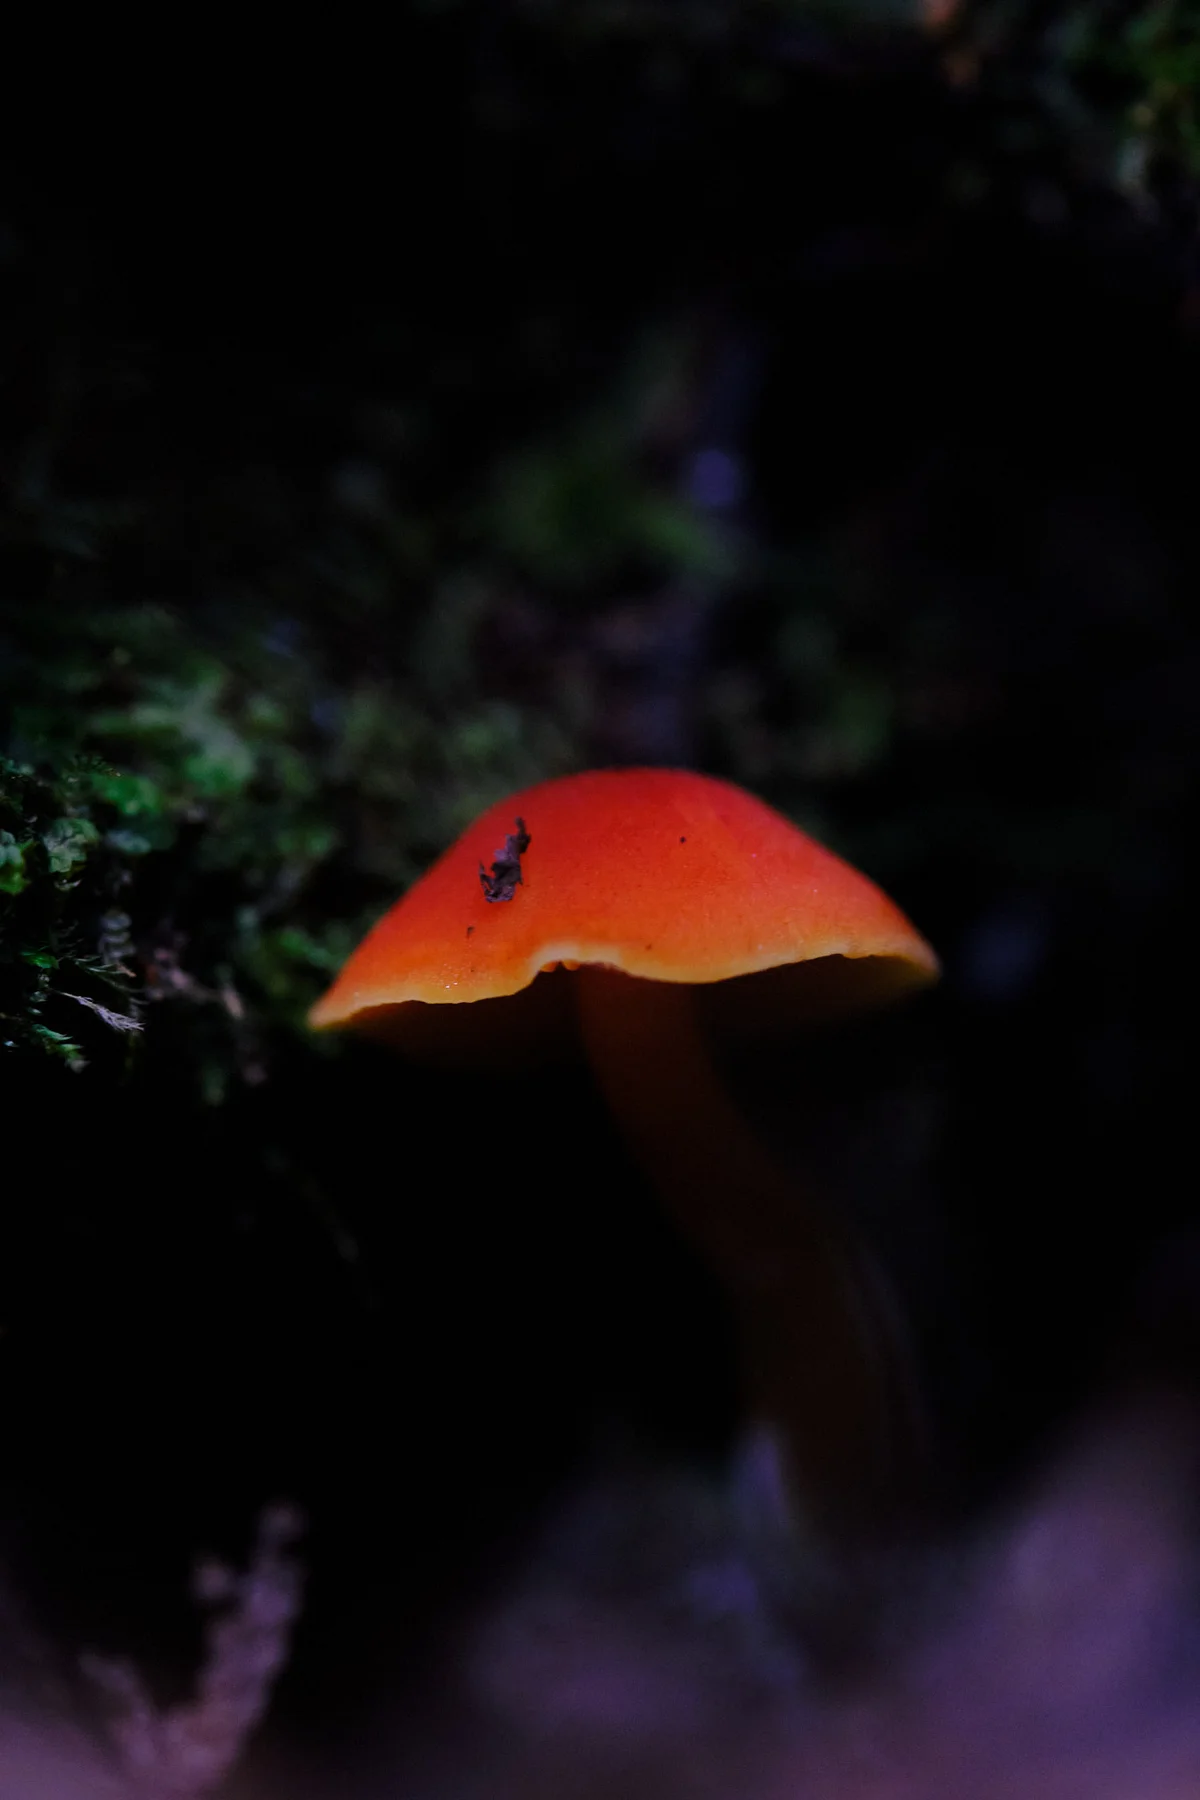
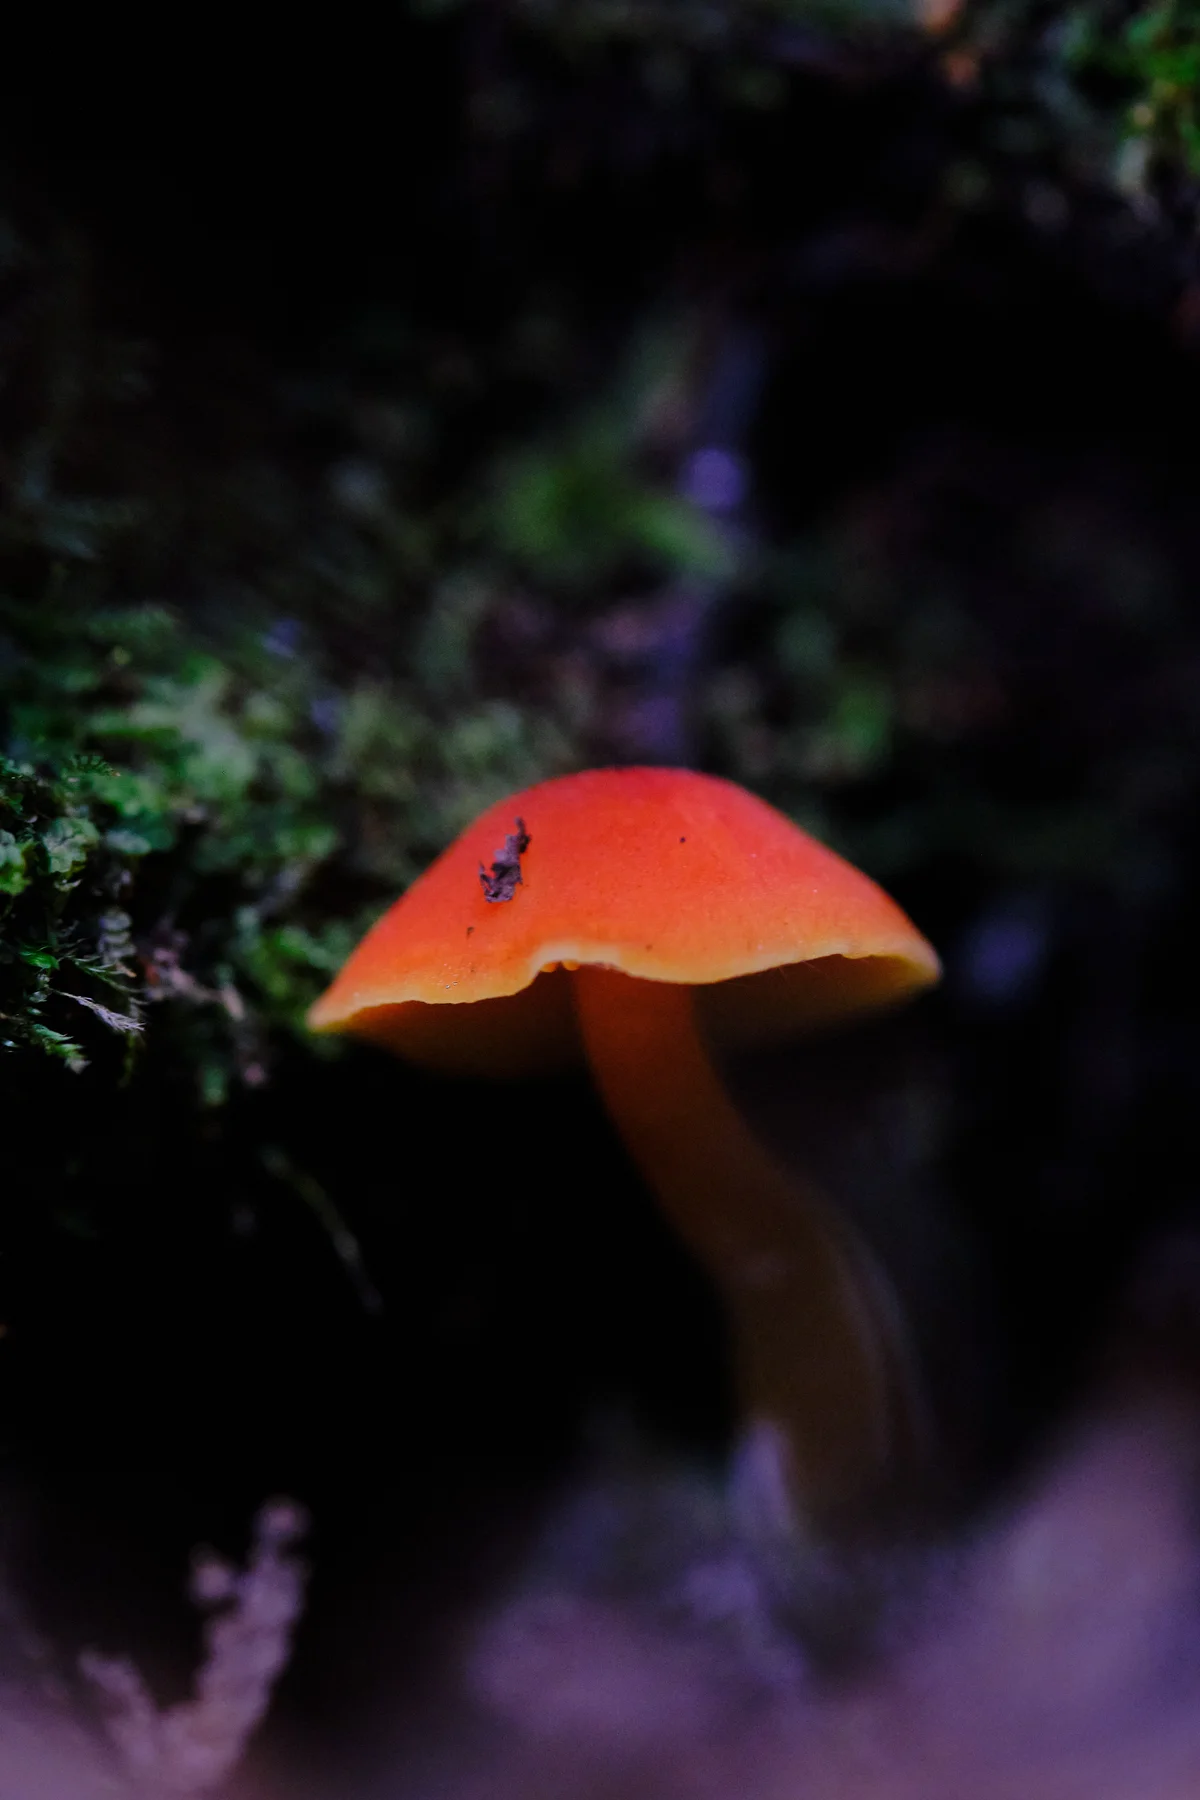
Add better shroom photos, add social links

diff --git a/dist/photos/2025-08-31-camping/index.html b/dist/photos/2025-08-31-camping/index.html
@@ -224,6 +224,11 @@
       </div>
     
       <div class="photo-item" onclick="openModal(9)">
+        <img src="/static/optimized/2025-08-31-camping/orange shroom 2.webp" alt="orange shroom 2" loading="lazy">
+        <div class="filename">orange shroom 2</div>
+      </div>
+    
+      <div class="photo-item" onclick="openModal(10)">
         <img src="/static/optimized/2025-08-31-camping/orange shroom.webp" alt="orange shroom" loading="lazy">
         <div class="filename">orange shroom</div>
       </div>
@@ -248,7 +253,7 @@
     
     <script>
       let currentPhotoIndex = 0;
-      const photos = [{"filename":"(kate) moss.jpg","title":"(kate) moss","imageId":"(kate)moss_0","originalPath":"/photos/2025-08-31-camping/(kate) moss.jpg","optimizedPath":"/static/optimized/2025-08-31-camping/(kate) moss.webp"},{"filename":"a good rock 1.jpg","title":"a good rock 1","imageId":"agoodrock1_1","originalPath":"/photos/2025-08-31-camping/a good rock 1.jpg","optimizedPath":"/static/optimized/2025-08-31-camping/a good rock 1.webp"},{"filename":"a good rock 2.jpg","title":"a good rock 2","imageId":"agoodrock2_2","originalPath":"/photos/2025-08-31-camping/a good rock 2.jpg","optimizedPath":"/static/optimized/2025-08-31-camping/a good rock 2.webp"},{"filename":"a good rock 3.jpg","title":"a good rock 3","imageId":"agoodrock3_3","originalPath":"/photos/2025-08-31-camping/a good rock 3.jpg","optimizedPath":"/static/optimized/2025-08-31-camping/a good rock 3.webp"},{"filename":"a nice gull.jpg","title":"a nice gull","imageId":"anicegull_4","originalPath":"/photos/2025-08-31-camping/a nice gull.jpg","optimizedPath":"/static/optimized/2025-08-31-camping/a nice gull.webp"},{"filename":"a nice stump.jpg","title":"a nice stump","imageId":"anicestump_5","originalPath":"/photos/2025-08-31-camping/a nice stump.jpg","optimizedPath":"/static/optimized/2025-08-31-camping/a nice stump.webp"},{"filename":"a nice walk 2.jpg","title":"a nice walk 2","imageId":"anicewalk2_6","originalPath":"/photos/2025-08-31-camping/a nice walk 2.jpg","optimizedPath":"/static/optimized/2025-08-31-camping/a nice walk 2.webp"},{"filename":"a nice walk.jpg","title":"a nice walk","imageId":"anicewalk_7","originalPath":"/photos/2025-08-31-camping/a nice walk.jpg","optimizedPath":"/static/optimized/2025-08-31-camping/a nice walk.webp"},{"filename":"oozing tree.jpg","title":"oozing tree","imageId":"oozingtree_8","originalPath":"/photos/2025-08-31-camping/oozing tree.jpg","optimizedPath":"/static/optimized/2025-08-31-camping/oozing tree.webp"},{"filename":"orange shroom.jpg","title":"orange shroom","imageId":"orangeshroom_9","originalPath":"/photos/2025-08-31-camping/orange shroom.jpg","optimizedPath":"/static/optimized/2025-08-31-camping/orange shroom.webp"}];
+      const photos = [{"filename":"(kate) moss.jpg","title":"(kate) moss","imageId":"(kate)moss_0","originalPath":"/photos/2025-08-31-camping/(kate) moss.jpg","optimizedPath":"/static/optimized/2025-08-31-camping/(kate) moss.webp"},{"filename":"a good rock 1.jpg","title":"a good rock 1","imageId":"agoodrock1_1","originalPath":"/photos/2025-08-31-camping/a good rock 1.jpg","optimizedPath":"/static/optimized/2025-08-31-camping/a good rock 1.webp"},{"filename":"a good rock 2.jpg","title":"a good rock 2","imageId":"agoodrock2_2","originalPath":"/photos/2025-08-31-camping/a good rock 2.jpg","optimizedPath":"/static/optimized/2025-08-31-camping/a good rock 2.webp"},{"filename":"a good rock 3.jpg","title":"a good rock 3","imageId":"agoodrock3_3","originalPath":"/photos/2025-08-31-camping/a good rock 3.jpg","optimizedPath":"/static/optimized/2025-08-31-camping/a good rock 3.webp"},{"filename":"a nice gull.jpg","title":"a nice gull","imageId":"anicegull_4","originalPath":"/photos/2025-08-31-camping/a nice gull.jpg","optimizedPath":"/static/optimized/2025-08-31-camping/a nice gull.webp"},{"filename":"a nice stump.jpg","title":"a nice stump","imageId":"anicestump_5","originalPath":"/photos/2025-08-31-camping/a nice stump.jpg","optimizedPath":"/static/optimized/2025-08-31-camping/a nice stump.webp"},{"filename":"a nice walk 2.jpg","title":"a nice walk 2","imageId":"anicewalk2_6","originalPath":"/photos/2025-08-31-camping/a nice walk 2.jpg","optimizedPath":"/static/optimized/2025-08-31-camping/a nice walk 2.webp"},{"filename":"a nice walk.jpg","title":"a nice walk","imageId":"anicewalk_7","originalPath":"/photos/2025-08-31-camping/a nice walk.jpg","optimizedPath":"/static/optimized/2025-08-31-camping/a nice walk.webp"},{"filename":"oozing tree.jpg","title":"oozing tree","imageId":"oozingtree_8","originalPath":"/photos/2025-08-31-camping/oozing tree.jpg","optimizedPath":"/static/optimized/2025-08-31-camping/oozing tree.webp"},{"filename":"orange shroom 2.jpeg","title":"orange shroom 2","imageId":"orangeshroom2_9","originalPath":"/photos/2025-08-31-camping/orange shroom 2.jpeg","optimizedPath":"/static/optimized/2025-08-31-camping/orange shroom 2.webp"},{"filename":"orange shroom.jpg","title":"orange shroom","imageId":"orangeshroom_10","originalPath":"/photos/2025-08-31-camping/orange shroom.jpg","optimizedPath":"/static/optimized/2025-08-31-camping/orange shroom.webp"}];
       
    
       

diff --git a/dist/index.html b/dist/index.html
@@ -184,6 +184,21 @@
       decide to work on it, purely for The Love Of The Game.
     </p>
   </section>
+
+  <footer class="site-footer">
+    <div class="social-links">
+      <a href="https://bsky.app/profile/benjie.ca" class="social-link" target="_blank" rel="noopener noreferrer" aria-label="Follow me on Bluesky">
+        <svg xmlns="http://www.w3.org/2000/svg" width="24" height="24" viewBox="0 0 24 24" fill="currentColor" aria-hidden="true">
+          <path d="M12 10.8c-1.087-2.114-4.046-6.053-6.798-7.995C2.566.944 1.561 1.266.902 1.565.139 1.908 0 3.08 0 3.768c0 .69.378 5.65.624 6.479.815 2.736 3.713 3.66 6.383 3.364.136-.02.275-.039.415-.056-.138.022-.276.04-.415.056-3.912.58-7.387 2.005-2.83 7.078 5.013 5.19 6.87-1.113 7.823-4.308.953 3.195 2.05 9.271 7.733 4.308 4.267-4.308 1.172-6.498-2.74-7.078a8.741 8.741 0 0 1-.415-.056c.14.017.279.036.415.056 2.67.297 5.568-.628 6.383-3.364.246-.828.624-5.79.624-6.478 0-.69-.139-1.861-.902-2.206-.659-.298-1.664-.62-4.3 1.24C16.046 4.748 13.087 8.687 12 10.8Z"/>
+        </svg>
+      </a>
+      <a href="https://instagram.com/benjie_snaps" class="social-link" target="_blank" rel="noopener noreferrer" aria-label="Follow me on Instagram">
+        <svg xmlns="http://www.w3.org/2000/svg" width="24" height="24" viewBox="0 0 24 24" fill="currentColor" aria-hidden="true">
+          <path d="M12 2.163c3.204 0 3.584.012 4.85.07 3.252.148 4.771 1.691 4.919 4.919.058 1.265.069 1.645.069 4.849 0 3.205-.012 3.584-.069 4.849-.149 3.225-1.664 4.771-4.919 4.919-1.266.058-1.644.07-4.85.07-3.204 0-3.584-.012-4.849-.07-3.26-.149-4.771-1.699-4.919-4.92-.058-1.265-.07-1.644-.07-4.849 0-3.204.013-3.583.07-4.849.149-3.227 1.664-4.771 4.919-4.919 1.266-.057 1.645-.069 4.849-.069zm0-2.163c-3.259 0-3.667.014-4.947.072-4.358.2-6.78 2.618-6.98 6.98-.059 1.281-.073 1.689-.073 4.948 0 3.259.014 3.668.072 4.948.2 4.358 2.618 6.78 6.98 6.98 1.281.058 1.689.072 4.948.072 3.259 0 3.668-.014 4.948-.072 4.354-.2 6.782-2.618 6.979-6.98.059-1.28.073-1.689.073-4.948 0-3.259-.014-3.667-.072-4.947-.196-4.354-2.617-6.78-6.979-6.98-1.281-.059-1.69-.073-4.949-.073zm0 5.838c-3.403 0-6.162 2.759-6.162 6.162s2.759 6.163 6.162 6.163 6.162-2.759 6.162-6.163c0-3.403-2.759-6.162-6.162-6.162zm0 10.162c-2.209 0-4-1.79-4-4 0-2.209 1.791-4 4-4s4 1.791 4 4c0 2.21-1.791 4-4 4zm6.406-11.845c-.796 0-1.441.645-1.441 1.44s.645 1.44 1.441 1.44c.795 0 1.439-.645 1.439-1.44s-.644-1.44-1.439-1.44z"/>
+        </svg>
+      </a>
+    </div>
+  </footer>
 </body>
 
       </main>

diff --git a/pages/index.html b/pages/index.html
@@ -21,4 +21,19 @@
       decide to work on it, purely for The Love Of The Game.
     </p>
   </section>
+
+  <footer class="site-footer">
+    <div class="social-links">
+      <a href="https://bsky.app/profile/benjie.ca" class="social-link" target="_blank" rel="noopener noreferrer" aria-label="Follow me on Bluesky">
+        <svg xmlns="http://www.w3.org/2000/svg" width="24" height="24" viewBox="0 0 24 24" fill="currentColor" aria-hidden="true">
+          <path d="M12 10.8c-1.087-2.114-4.046-6.053-6.798-7.995C2.566.944 1.561 1.266.902 1.565.139 1.908 0 3.08 0 3.768c0 .69.378 5.65.624 6.479.815 2.736 3.713 3.66 6.383 3.364.136-.02.275-.039.415-.056-.138.022-.276.04-.415.056-3.912.58-7.387 2.005-2.83 7.078 5.013 5.19 6.87-1.113 7.823-4.308.953 3.195 2.05 9.271 7.733 4.308 4.267-4.308 1.172-6.498-2.74-7.078a8.741 8.741 0 0 1-.415-.056c.14.017.279.036.415.056 2.67.297 5.568-.628 6.383-3.364.246-.828.624-5.79.624-6.478 0-.69-.139-1.861-.902-2.206-.659-.298-1.664-.62-4.3 1.24C16.046 4.748 13.087 8.687 12 10.8Z"/>
+        </svg>
+      </a>
+      <a href="https://instagram.com/benjie_snaps" class="social-link" target="_blank" rel="noopener noreferrer" aria-label="Follow me on Instagram">
+        <svg xmlns="http://www.w3.org/2000/svg" width="24" height="24" viewBox="0 0 24 24" fill="currentColor" aria-hidden="true">
+          <path d="M12 2.163c3.204 0 3.584.012 4.85.07 3.252.148 4.771 1.691 4.919 4.919.058 1.265.069 1.645.069 4.849 0 3.205-.012 3.584-.069 4.849-.149 3.225-1.664 4.771-4.919 4.919-1.266.058-1.644.07-4.85.07-3.204 0-3.584-.012-4.849-.07-3.26-.149-4.771-1.699-4.919-4.92-.058-1.265-.07-1.644-.07-4.849 0-3.204.013-3.583.07-4.849.149-3.227 1.664-4.771 4.919-4.919 1.266-.057 1.645-.069 4.849-.069zm0-2.163c-3.259 0-3.667.014-4.947.072-4.358.2-6.78 2.618-6.98 6.98-.059 1.281-.073 1.689-.073 4.948 0 3.259.014 3.668.072 4.948.2 4.358 2.618 6.78 6.98 6.98 1.281.058 1.689.072 4.948.072 3.259 0 3.668-.014 4.948-.072 4.354-.2 6.782-2.618 6.979-6.98.059-1.28.073-1.689.073-4.948 0-3.259-.014-3.667-.072-4.947-.196-4.354-2.617-6.78-6.979-6.98-1.281-.059-1.69-.073-4.949-.073zm0 5.838c-3.403 0-6.162 2.759-6.162 6.162s2.759 6.163 6.162 6.163 6.162-2.759 6.162-6.163c0-3.403-2.759-6.162-6.162-6.162zm0 10.162c-2.209 0-4-1.79-4-4 0-2.209 1.791-4 4-4s4 1.791 4 4c0 2.21-1.791 4-4 4zm6.406-11.845c-.796 0-1.441.645-1.441 1.44s.645 1.44 1.441 1.44c.795 0 1.439-.645 1.439-1.44s-.644-1.44-1.439-1.44z"/>
+        </svg>
+      </a>
+    </div>
+  </footer>
 </body>

diff --git a/dist/static/styles.css b/dist/static/styles.css
@@ -379,4 +379,68 @@ img {
   height: auto;
 }
 
+/* Footer styles */
+.site-footer {
+  margin-top: 64px;
+  padding: 32px 16px;
+  text-align: center;
+}
+
+.social-links {
+  display: flex;
+  justify-content: center;
+  gap: 32px;
+  flex-wrap: wrap;
+}
+
+.social-link {
+  display: flex;
+  align-items: center;
+  gap: 8px;
+  color: var(--primary-color);
+  text-decoration: none;
+  font-weight: 500;
+  transition: color 0.2s ease;
+  padding: 8px 16px;
+  border-radius: 8px;
+  border: 1px solid transparent;
+}
+
+
+
+.social-link:focus {
+  outline: 2px solid var(--primary-color);
+  outline-offset: 2px;
+}
+
+.social-link svg {
+  width: 24px;
+  height: 24px;
+  flex-shrink: 0;
+}
+
+.social-link span {
+  font-size: 1rem;
+}
+
+/* Responsive footer */ 
+@media (max-width: 768px) {
+  .social-links {
+    gap: 16px;
+  }
+  
+  .social-link {
+    padding: 6px 12px;
+  }
+  
+  .social-link svg {
+    width: 20px;
+    height: 20px;
+  }
+  
+  .social-link span {
+    font-size: 0.9rem;
+  }
+}
+
 

diff --git a/static/styles.css b/static/styles.css
@@ -379,4 +379,68 @@ img {
   height: auto;
 }
 
+/* Footer styles */
+.site-footer {
+  margin-top: 64px;
+  padding: 32px 16px;
+  text-align: center;
+}
+
+.social-links {
+  display: flex;
+  justify-content: center;
+  gap: 32px;
+  flex-wrap: wrap;
+}
+
+.social-link {
+  display: flex;
+  align-items: center;
+  gap: 8px;
+  color: var(--primary-color);
+  text-decoration: none;
+  font-weight: 500;
+  transition: color 0.2s ease;
+  padding: 8px 16px;
+  border-radius: 8px;
+  border: 1px solid transparent;
+}
+
+
+
+.social-link:focus {
+  outline: 2px solid var(--primary-color);
+  outline-offset: 2px;
+}
+
+.social-link svg {
+  width: 24px;
+  height: 24px;
+  flex-shrink: 0;
+}
+
+.social-link span {
+  font-size: 1rem;
+}
+
+/* Responsive footer */ 
+@media (max-width: 768px) {
+  .social-links {
+    gap: 16px;
+  }
+  
+  .social-link {
+    padding: 6px 12px;
+  }
+  
+  .social-link svg {
+    width: 20px;
+    height: 20px;
+  }
+  
+  .social-link span {
+    font-size: 0.9rem;
+  }
+}
+
 

diff --git a/dist/photos/index.html b/dist/photos/index.html
@@ -176,7 +176,7 @@
             <h2>RV Trip to Bass Lake and Finlayson Point Provincial Parks</h2>
             <div class="gallery-meta">
               <span class="gallery-date">Sat Aug 30 2025</span>
-              <span class="gallery-count">10 photos</span>
+              <span class="gallery-count">11 photos</span>
             </div>
             
               <div class="gallery-tags">
